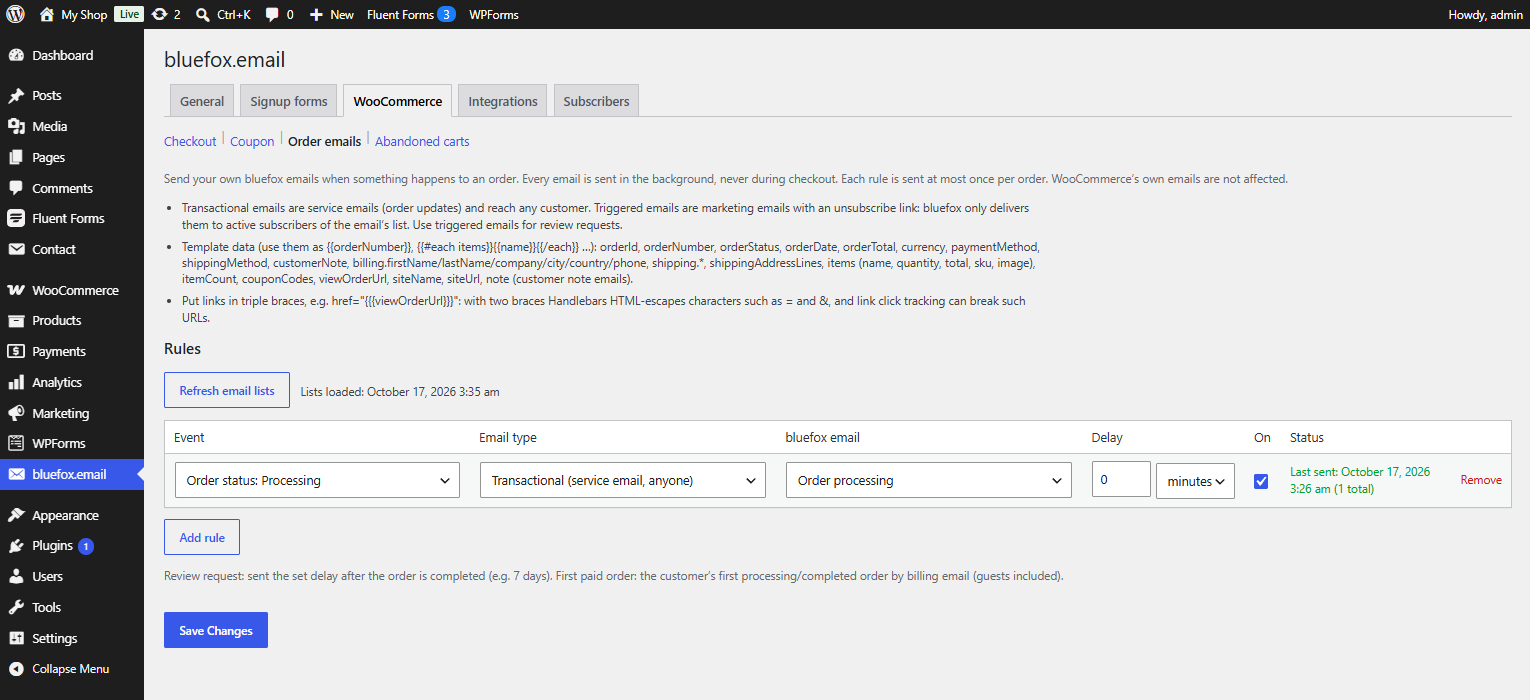
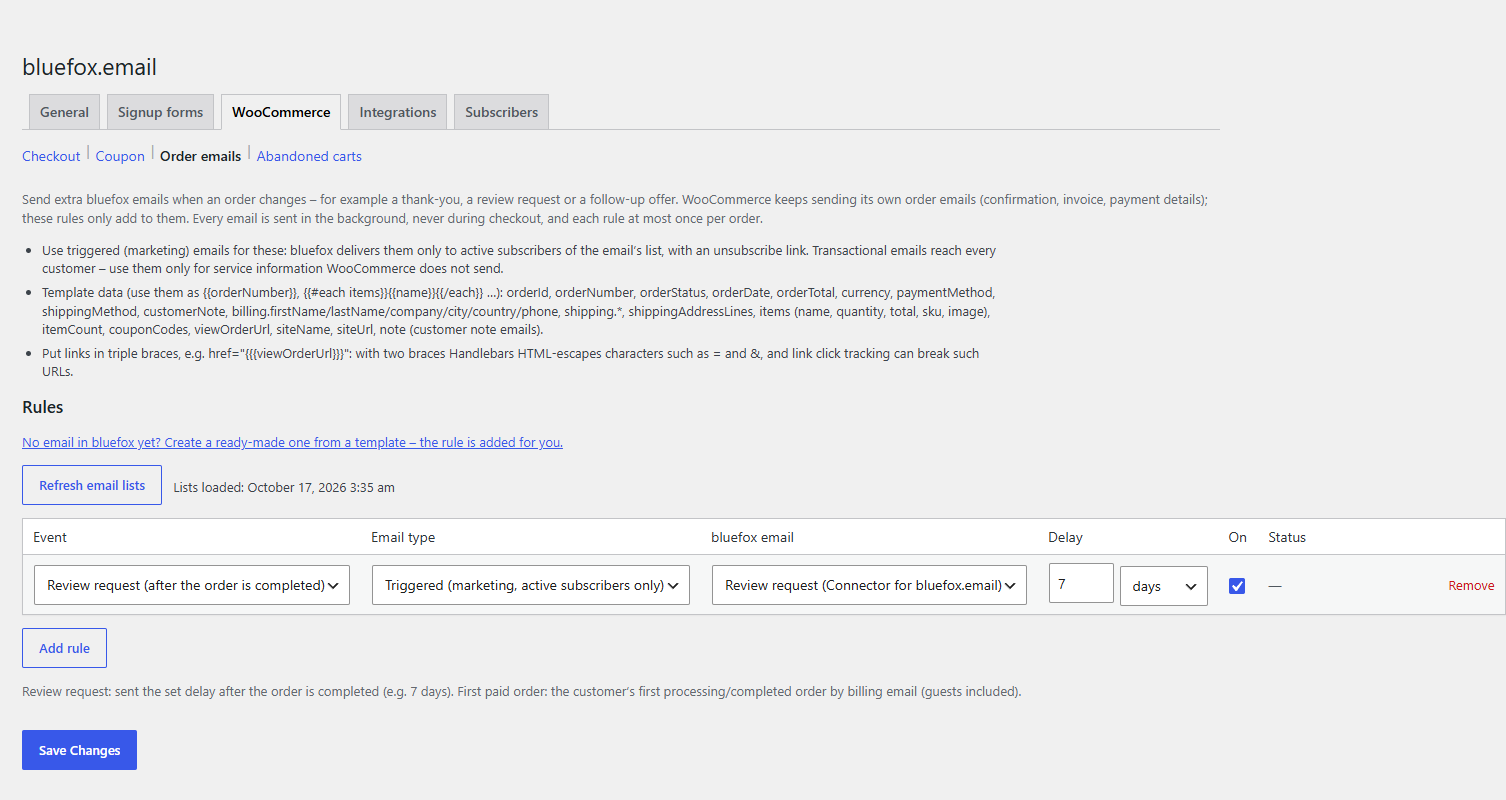
Docs: cfbe_email_design filter, fresh Email templates and Order emails screenshots, readme template list

diff --git a/docs/developers/hooks.md b/docs/developers/hooks.md
@@ -55,6 +55,12 @@ All hooks are prefixed `cfbe_`. Hooks that belong to a module only fire while th
 |---|---|---|
 | `cfbe_woo_events_data` | `array $data`, `string $event`, `WC_Order` or `array` `$order_or_cart` | Template data of an order or abandoned cart email. For `abandoned_cart` the third parameter is the cart row (array). See [Email template data](template-data.md#order-emails). |
 
+## Email templates
+
+| Filter | Parameters | Description |
+|---|---|---|
+| `cfbe_email_design` | `array $design` – `colors` (primary, button_text, accent, text, muted, border, card, page, body, footer), `font`, `logo` (url, width, align), `footer` (HTML) | Design of the ready-made emails on the [Email templates](../features/email-templates.md#design) tab, taken from WooCommerce's email settings or the Form tab. Applied when an email is created or updated in bluefox. |
+
 ## Contact sync
 
 | Filter | Parameters | Description |
